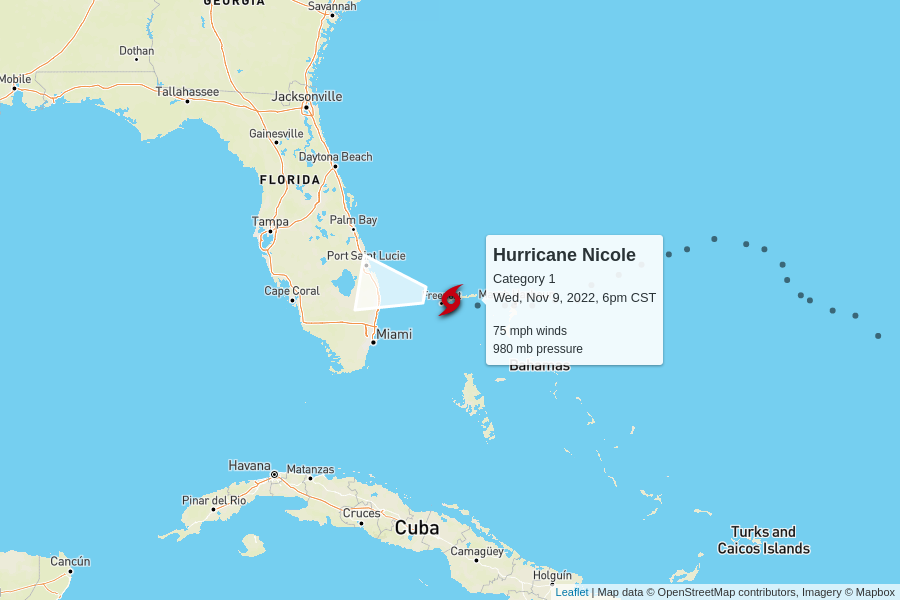
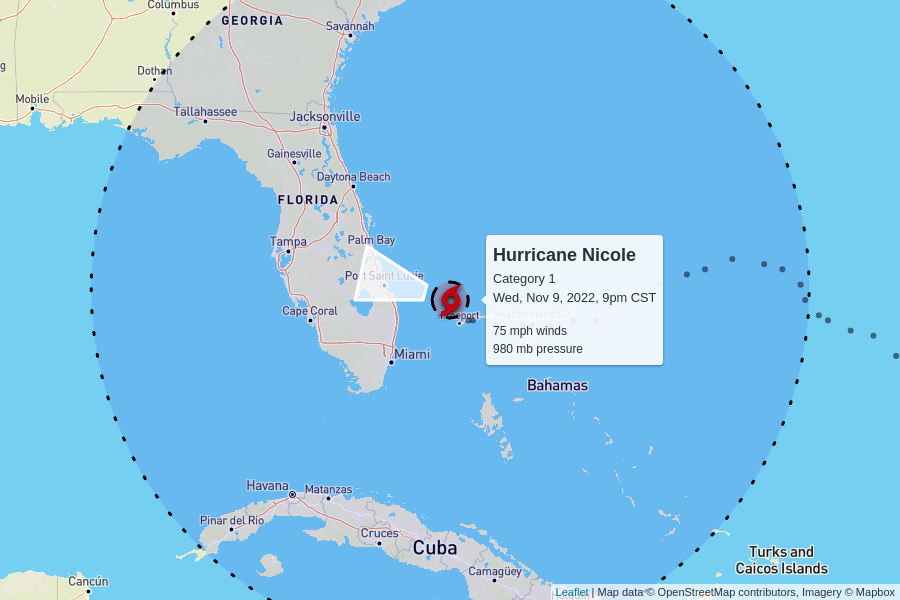
automatic update

diff --git a/docs/index.html b/docs/index.html
@@ -100,7 +100,7 @@
         <td colspan="6" class="storm category-1" >
           <h2>
             Hurricane Nicole - Category 1
-            <p class="updated">last updated <span data-time>2022-11-10T00:00:00.000Z</span></p>
+            <p class="updated">last updated <span data-time>2022-11-10T03:00:00.000Z</span></p>
           </h2>
         </td>
       </tr>
@@ -118,9 +118,9 @@
         <td>75 mph</td>
         <td>980 mb</td>
         <td>
-          13 mph to the west
+          13 mph to the west-northwest
           <br/>
-          <span style="display: inline-block; font-size: 1.5em; transform: rotate(280deg);">↑</span>
+          <span style="display: inline-block; font-size: 1.5em; transform: rotate(285deg);">↑</span>
         </td>
         <td><a href="https://raw.githubusercontent.com/mgwalker/atlantic-hurricanes/main/data/csv/AL172022.csv">AL172022.csv</a></td>
         <td><a href="https://www.nhc.noaa.gov/archive/2022/NICOLE.shtml?">NHC advisories</a></td>
